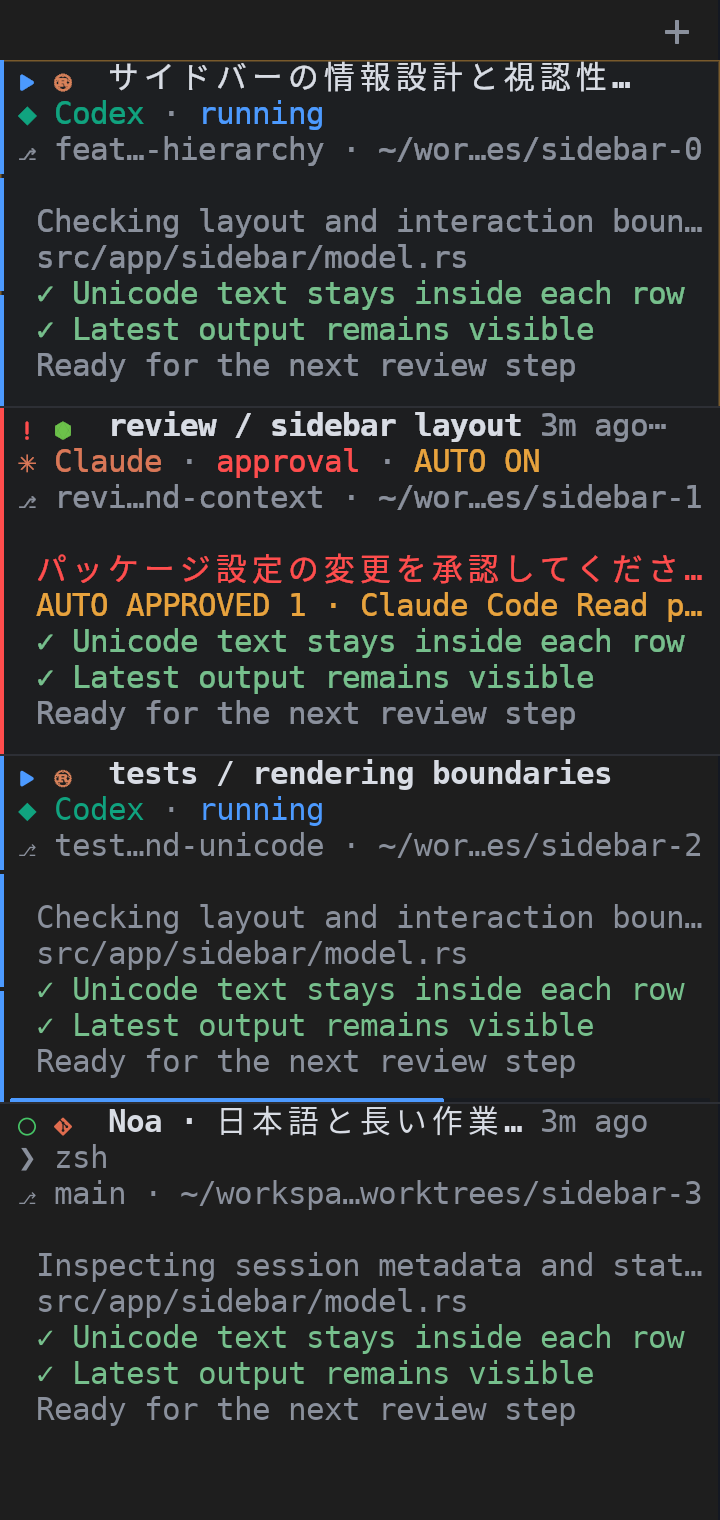
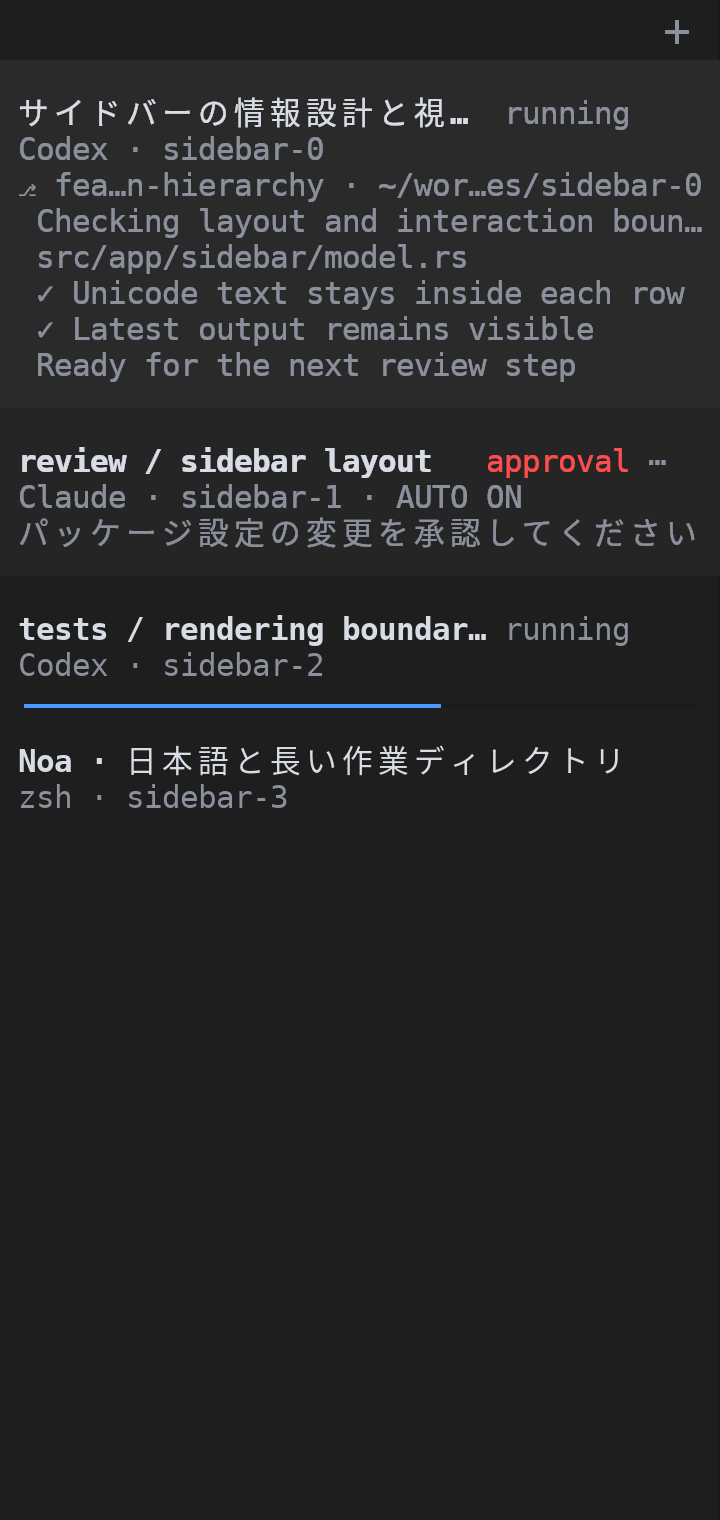
refactor(sidebar): finalize compact session presentation

diff --git a/crates/noa-app/src/session_store.rs b/crates/noa-app/src/session_store.rs
@@ -170,16 +170,15 @@ pub struct WallClock {
     pub minute: u32,
 }
 
-/// The status dot color for a card (FR-11). Semantics: `Blue` = busy (a
-/// program is running), `Green` = idle, `Yellow` = an unread bell is pending,
-/// `Red` = an unread notification or an explicitly reported request/error.
-/// Precedence is attention > bell > busy > idle (see [`status_dot`]).
+/// A card's activity or pending notification, independent of its visual
+/// presentation. Precedence is attention > bell > busy > idle (see
+/// [`session_activity`]).
 #[derive(Clone, Copy, Debug, PartialEq, Eq)]
-pub enum StatusDot {
-    Blue,
-    Green,
-    Yellow,
-    Red,
+pub enum SessionActivity {
+    Busy,
+    Idle,
+    Bell,
+    Attention,
 }
 
 /// One auto-approve audit entry shown on the session card. The store keeps the
@@ -1023,18 +1022,18 @@ impl SessionStore {
     }
 }
 
-/// Map a card's state to its status dot color (FR-11/FR-16). Precedence is
+/// Resolve a card's activity (FR-11/FR-16). Precedence is
 /// attention > bell > busy > idle: a pending interaction request wins over an
 /// unread bell, which wins over a running program, which wins over idle.
-pub fn status_dot(card: &SessionCard) -> StatusDot {
+pub fn session_activity(card: &SessionCard) -> SessionActivity {
     if card.attention || card.agent_needs_attention() {
-        StatusDot::Red
+        SessionActivity::Attention
     } else if card.unread_bell {
-        StatusDot::Yellow
+        SessionActivity::Bell
     } else if card.is_running() {
-        StatusDot::Blue
+        SessionActivity::Busy
     } else {
-        StatusDot::Green
+        SessionActivity::Idle
     }
 }
 
@@ -1413,9 +1412,9 @@ mod tests {
         assert_eq!(store.get(&id).unwrap().name, "reborn");
     }
 
-    // AC-13 (FR-11): status-dot color mapping with bell > busy > idle.
+    // AC-13 (FR-11): activity precedence is attention > bell > busy > idle.
     #[test]
-    fn status_dot_maps_state_to_color() {
+    fn session_activity_prioritizes_notifications_over_running_and_idle() {
         let base = SessionCard {
             name: "s".to_string(),
             name_override: None,
@@ -1441,19 +1440,19 @@ mod tests {
             activity: 0,
         };
 
-        assert_eq!(status_dot(&base), StatusDot::Green);
+        assert_eq!(session_activity(&base), SessionActivity::Idle);
 
         let busy = SessionCard {
             busy: true,
             ..base.clone()
         };
-        assert_eq!(status_dot(&busy), StatusDot::Blue);
+        assert_eq!(session_activity(&busy), SessionActivity::Busy);
 
         let bell = SessionCard {
             unread_bell: true,
             ..base.clone()
         };
-        assert_eq!(status_dot(&bell), StatusDot::Yellow);
+        assert_eq!(session_activity(&bell), SessionActivity::Bell);
 
         // Bell wins over busy.
         let bell_and_busy = SessionCard {
@@ -1461,7 +1460,7 @@ mod tests {
             busy: true,
             ..base.clone()
         };
-        assert_eq!(status_dot(&bell_and_busy), StatusDot::Yellow);
+        assert_eq!(session_activity(&bell_and_busy), SessionActivity::Bell);
 
         // Attention (FR-16) wins over everything.
         let attention = SessionCard {
@@ -1470,7 +1469,7 @@ mod tests {
             busy: true,
             ..base
         };
-        assert_eq!(status_dot(&attention), StatusDot::Red);
+        assert_eq!(session_activity(&attention), SessionActivity::Attention);
     }
 
     #[test]

diff --git a/crates/noa-app/src/app/sidebar/model.rs b/crates/noa-app/src/app/sidebar/model.rs
@@ -425,6 +425,7 @@ fn right_aligned_run(
 /// A single status label, shown on the name row. Routine activity stays
 /// neutral; semantic color is reserved for a request that needs attention.
 fn card_state_label(card: &SessionCard) -> Option<(&'static str, Rgb)> {
+    use crate::session_store::{SessionActivity, session_activity};
     use noa_grid::AgentState;
     if let Some(report) = &card.agent_status
         && report.state.needs_attention()
@@ -437,20 +438,20 @@ fn card_state_label(card: &SessionCard) -> Option<(&'static str, Rgb)> {
         };
         return Some((label, chrome().dot_red));
     }
-    if card.attention {
-        return Some((ATTENTION_LABEL, chrome().dot_red));
+    match session_activity(card) {
+        SessionActivity::Attention => Some((ATTENTION_LABEL, chrome().dot_red)),
+        SessionActivity::Bell => Some(("bell", chrome().dim_fg)),
+        SessionActivity::Busy => Some(("running", chrome().dim_fg)),
+        SessionActivity::Idle
+            if card
+                .agent_status
+                .as_ref()
+                .is_some_and(|report| report.state == AgentState::Finished) =>
+        {
+            Some(("done", chrome().dim_fg))
+        }
+        SessionActivity::Idle => None,
     }
-    if card.unread_bell {
-        return Some(("bell", chrome().dim_fg));
-    }
-    if card
-        .agent_status
-        .as_ref()
-        .is_some_and(|report| report.state == AgentState::Finished)
-    {
-        return Some(("done", chrome().dim_fg));
-    }
-    card.is_running().then_some(("running", chrome().dim_fg))
 }
 
 fn working_directory_name(cwd: &str) -> &str {
@@ -685,6 +686,7 @@ fn mark_float_card(lines: &mut CardLines, is_float: bool) {
 mod tests {
     use super::*;
     use crate::session_store::{AutoApproveAuditEntry, PreviewSpan, SessionStore, WallClock};
+    use crate::sidebar::{SidebarCardMode, SidebarCardSpec};
     use noa_core::Color;
 
     #[test]

diff --git a/crates/noa-app/src/app/sidebar.rs b/crates/noa-app/src/app/sidebar.rs
@@ -11,8 +11,8 @@
 use super::*;
 use crate::session_store::{AgentKind, SessionCard, SessionDelta};
 use crate::sidebar::{
-    CARD_MENU_ITEMS, CardLines, CardRects, SidebarCardMode, SidebarCardSpec, SidebarMetrics,
-    SidebarRect, agent_display_name, card_lines,
+    CARD_MENU_ITEMS, CardLines, CardRects, SidebarMetrics, SidebarRect, agent_display_name,
+    card_lines,
 };
 use noa_core::Rgb;
 use std::collections::HashSet;

diff --git a/docs/images/agent-sidebar/README.md b/docs/images/agent-sidebar/README.md
@@ -1,35 +1,56 @@
 # Agent sidebar rendering comparison
 
-These images show synthetic sessions rendered by Noa's production sidebar text
+These images compare the sidebar redesign with the previous revision of this
+PR. The same synthetic sessions are rendered by Noa's production sidebar text
 renderer and wgpu compositor. They contain no captured terminal-session data.
 They are offscreen rendering evidence, not screenshots of a running native
 window or a substitute for manual GUI verification.
 
 ## Capture conditions
 
-- Before: `681e0019e8cbe65adf5e632790b9fc8a81b96a62`.
-- After: `d8b81a3ad83f9cef7d44b8d9aaa283cb1e2ece75`.
+- Before: `149718354c64f0e60a1e958acbf6b939d1a7f2c1` (previous PR revision).
+- After: `2ccf8691a860f492e146b283986600a588363183` (sidebar redesign).
 - Identical synthetic session data and startup settings in both versions.
 - Linux, DejaVu Sans Mono 11.5 pt, display scale 2, dark theme.
 - Measured font cell size: 18 × 36 physical pixels.
 - Default terminal padding: top 0, right 16, bottom 16, left 24 physical pixels.
-  Before passes this padding to the sidebar. After uses the sidebar's dedicated
-  zero padding, following each version's production code.
+  Both versions use the sidebar's dedicated zero padding, independently of
+  these terminal settings.
 - Software Vulkan rendering through Mesa llvmpipe.
 - Original PNG output, without image processing or retouching.
 
 ## Comparison
 
-Widths below are logical pixels; PNG dimensions are physical pixels.
+Viewport dimensions below are logical pixels. PNG dimensions are twice these
+values on each axis. Each pair uses the same viewport and preview setting.
 
-| Scenario | Before | After |
-| --- | --- | --- |
-| 360 px, 5 preview rows | ![Before at 360 px](before-default.png) | ![After at 360 px](after-default.png) |
-| 200 px, 5 preview rows | ![Before at 200 px](before-narrow.png) | ![After at 200 px](after-narrow.png) |
-| 360 px, no preview rows | ![Before without previews](before-no-preview.png) | ![After without previews](after-no-preview.png) |
+| Viewport | Preview limit | Before | After |
+| --- | --- | --- | --- |
+| 360 × 760 px | 5 rows | ![Previous revision at 360 px](before-default.png) | ![Redesign at 360 px](after-default.png) |
+| 200 × 760 px | 5 rows | ![Previous revision at 200 px](before-narrow.png) | ![Redesign at 200 px](after-narrow.png) |
+| 360 × 400 px | 0 rows | ![Previous revision without previews](before-no-preview.png) | ![Redesign without previews](after-no-preview.png) |
 
-The fixture exercises selection, hover, an approval request, automatic approval,
-progress, idle sessions, long Japanese titles, and long working directories.
+## Session states and detail visibility
+
+Both versions receive four sessions in the same order: a selected running Codex
+session, a hovered Claude session requesting approval, another running Codex
+session with 62% progress, and an idle shell. The data includes long Japanese
+titles, long branches and working directories, automatic approval enabled on
+the Claude session, an earlier approval audit entry, and five output rows.
+
+In the redesign, the selected first card expands to show its working context
+and up to five detail or output rows. Other running and idle cards use two
+lines: title and state, then agent or process and working-directory name. The
+unselected approval card adds one request-detail line when previews are
+enabled; hovering it reveals the menu without expanding the card. Routine
+status, metadata, and output use neutral colors, while the approval label and
+actual progress bar retain their semantic colors.
+
+With the preview limit set to zero, output rows and the approval-detail row are
+hidden. The selected card keeps its working context; other cards remain compact.
+
 The production `card_lines`, `emit_card_text`, `SidebarMetrics`, and
 `draw_sidebar_band` functions produce the card content, geometry, and pixels.
+The redesigned capture uses the production variable-height layout and texture
+crop, including the selected, attention, and compact card modes.
 The isolated capture harness does not change production code or dependencies.
